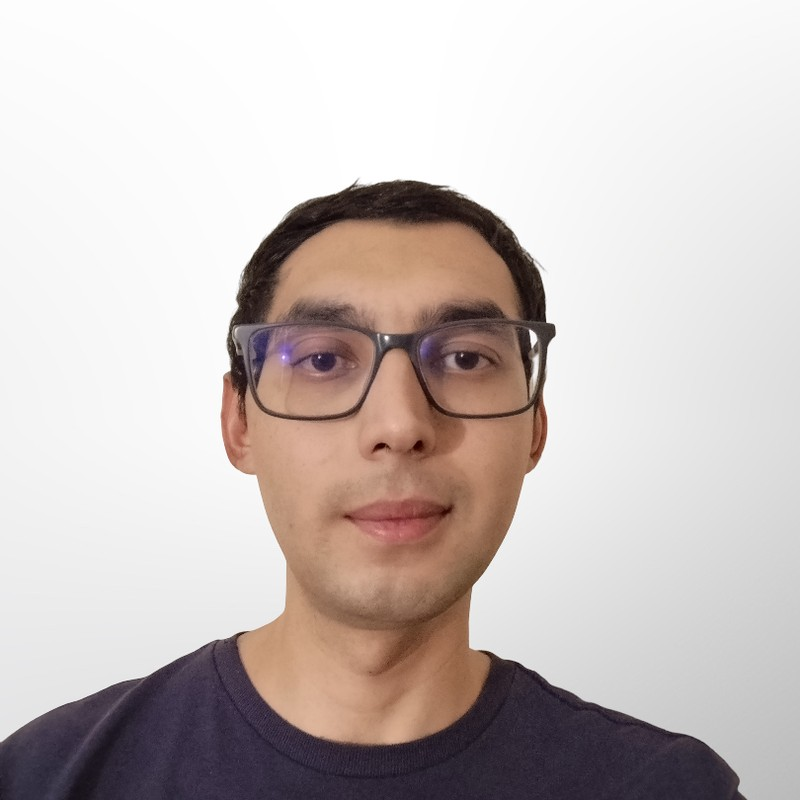
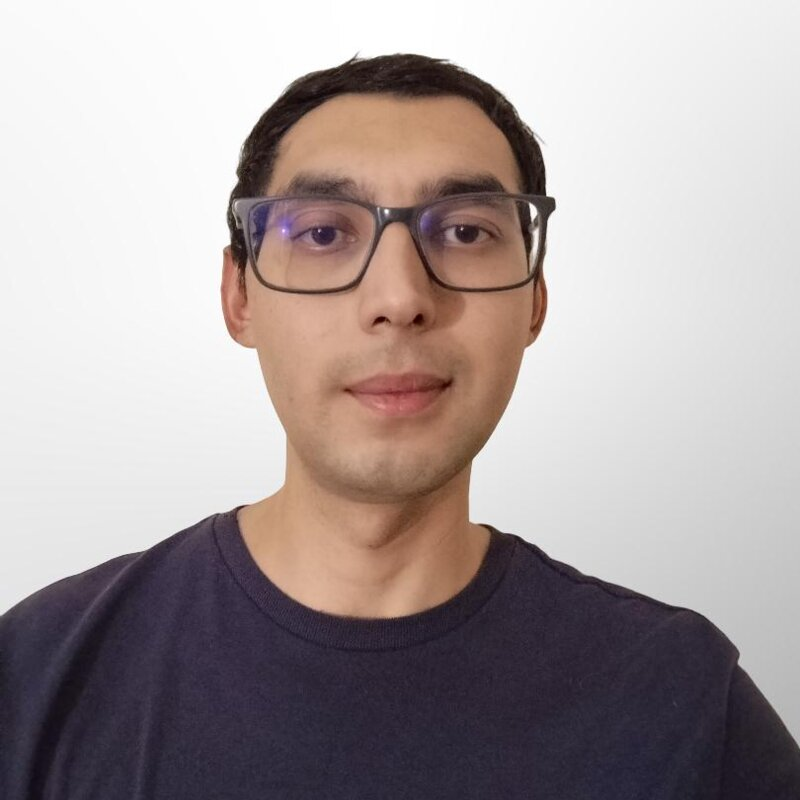
Antigua: fotos de David y José, nueva descripción del gallinero y enlace exacto de Maps

diff --git a/2026-antigua/js/main.js b/2026-antigua/js/main.js
@@ -40,7 +40,7 @@ const AGENDA = [
     hora: "12:15",
     titulo: "Automatización de un gallinero",
     ponentes: [{ nombre: "Gerardo Waldemar Montejo Saucedo", foto: "img/gerardo.jpg" }],
-    resumen: "Un gallinero casero conectado a internet que da de comer y beber, desinfecta y recolecta huevos, con monitoreo para no tener que visitarlo hasta por dos días."
+    resumen: "Gallinero casero conectado a internet que automatiza la alimentación, hidratación, desinfección y recolección de huevos, con monitoreo remoto y autonomía de hasta 2 días sin intervención humana."
   },
   {
     hora: "12:45",
@@ -70,7 +70,7 @@ const AGENDA = [
     titulo: "Embedito95: TypeScript en microcontroladores",
     ponentes: [
       { nombre: "David Salvador Melara Lemus", foto: "img/david.jpg" },
-      { nombre: "José Velásquez" }
+      { nombre: "José Velásquez", foto: "img/jose.jpg" }
     ],
     resumen: "Un toolchain open source para programar microcontroladores con e95, un lenguaje tipo TypeScript que se transpila a C++. Con demo en vivo de multitarea en hardware sencillo.",
     enlace: { url: "https://github.com/davidsal/Embedito95", texto: "Repositorio en GitHub" }

diff --git a/2026-antigua/index.html b/2026-antigua/index.html
@@ -107,7 +107,7 @@
       <p>Antigua Guatemala, Sacatepéquez.</p>
       <p>Registro desde las 10:00 a. m.; cierre a las 3:30 p. m. (hora de Guatemala). Hay refacción a la 1:15 p. m.; no hay almuerzo, así que planificá tu comida.</p>
       <div class="fila-btns">
-        <a class="btn btn-verde" href="https://www.google.com/maps/search/?api=1&amp;query=Porta+Hotel+Antigua" target="_blank" rel="noopener">Abrir en Google Maps</a>
+        <a class="btn btn-verde" href="https://www.google.com/maps/place/Porta+Hotel+Antigua/@14.5531311,-90.7337022,18z/data=!4m6!3m5!1s0x85890e72a7e528ed:0x15ce28f4b679dde2!8m2!3d14.5531311!4d-90.7337022" target="_blank" rel="noopener">Abrir en Google Maps</a>
         <a class="btn btn-borde" href="https://calendar.google.com/calendar/render?action=TEMPLATE&amp;text=Arduino+Day+2026+%C2%B7+Antigua+Guatemala&amp;dates=20261127T160000Z/20261127T213000Z&amp;location=Porta+Hotel+Antigua,+Antigua+Guatemala&amp;details=Charlas,+talleres+y+proyectos+de+hardware+libre.+Registro:+https://bit.ly/ArduinoDayAntigua2026" target="_blank" rel="noopener">Agregar a mi calendario</a>
       </div>
     </div>
